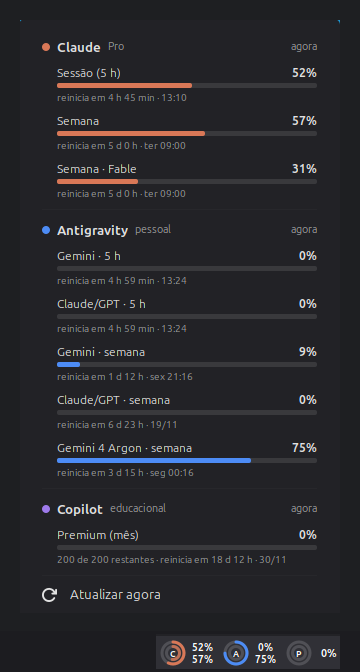
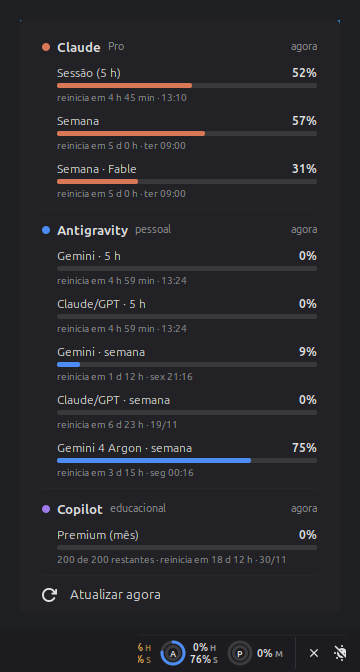
Letra do período na % e configurações por chave
- H/D/S/M depois da porcentagem (horas, dia, semana, mês)
- uma chave por IA em vez de digitar a lista de provedores
- leitura com mais de 30 min perde para uma mais nova de outra fonte
- coleta pedida durante outra roda logo depois; nada roda após remover
- reserva da status line corrompida e remaining nulo do Copilot não
  derrubam mais a coleta

Changed region(s): [[0.3667, 0.9375, 0.9778, 1.0]]

diff --git a/applet/cotabar@davicjc/applet.js b/applet/cotabar@davicjc/applet.js
@@ -54,19 +54,29 @@ function tempo(iso) {
     return isNaN(t) ? 0 : t;
 }
 
-// Junta os provedores de todos os arquivos: vence quem tem leitura boa, depois o mais novo.
-function juntar() {
+// Leitura com mais de 30 min perde para uma mais nova de outra fonte.
+const VELHA_MS = 30 * 60 * 1000;
+
+function peso(p) {
+    let v = (PESO_ESTADO[p.estado] || 0) + (p.janelas && p.janelas.length ? 1 : 0);
+    if (Date.now() - tempo(p.lido_em) > VELHA_MS) v -= 4;
+    return v;
+}
+
+// Junta os provedores de todos os arquivos: vence a leitura boa e recente, depois a mais nova.
+function juntar(lerUsuario) {
     const melhor = {};
     for (const pasta of PASTAS_FONTES) {
+        if (pasta === PASTA_USUARIO && !lerUsuario) continue;
         for (const arq of listarJson(pasta)) {
             let dados;
             try { dados = JSON.parse(lerTexto(arq) || "null"); } catch (e) { continue; }
             if (!dados || !Array.isArray(dados.provedores)) continue;
             for (const p of dados.provedores) {
                 const atual = melhor[p.id];
-                const peso = (PESO_ESTADO[p.estado] || 0) + (p.janelas && p.janelas.length ? 1 : 0);
-                const pesoAtual = atual ? (PESO_ESTADO[atual.estado] || 0) + (atual.janelas && atual.janelas.length ? 1 : 0) : -1;
-                if (peso > pesoAtual || (peso === pesoAtual && tempo(p.lido_em) > tempo(atual.lido_em))) {
+                const pesoNovo = peso(p);
+                const pesoAtual = atual ? peso(atual) : -99;
+                if (pesoNovo > pesoAtual || (pesoNovo === pesoAtual && tempo(p.lido_em) > tempo(atual.lido_em))) {
                     melhor[p.id] = p;
                 }
             }
@@ -76,12 +86,24 @@ function juntar() {
         .concat(Object.keys(melhor).filter(id => ORDEM.indexOf(id) < 0).map(id => melhor[id]));
 }
 
+// A janela mais apertada de cada tipo (é a que vai travar primeiro).
 function maior(janelas, tipo) {
     let m = null;
     for (const j of janelas || []) {
-        if (j.tipo === tipo && (m === null || j.usado > m)) m = j.usado;
+        if (j.tipo === tipo && (m === null || j.usado > m.usado)) m = j;
     }
     return m;
+}
+
+function periodo(j) {
+    if (j.periodo) return j.periodo;
+    return j.tipo === "curta" ? "H" : "S";  // JSON de coletor antigo
+}
+
+const NOME_PERIODO = { H: "horas", D: "dia", S: "semana", M: "mês" };
+
+function escapar(t) {
+    return GLib.markup_escape_text(String(t), -1);
 }
 
 // Item de menu só de leitura, sem o cinza de "desativado" que o Cinnamon põe.
@@ -205,8 +227,11 @@ class CotaBarApplet extends Applet.Applet {
         this.rodando = false;
 
         this.settings = new Settings.AppletSettings(this, metadata.uuid, instanceId);
-        this.settings.bind("coletar", "coletar", () => this._reagendar(true));
-        this.settings.bind("provedores", "listaProvedores", () => this._reagendar(true));
+        this.settings.bind("coletar", "coletar", () => { this._reagendar(true); this._ler(); });
+        for (const id of ORDEM) {
+            this.settings.bind("ia-" + id, "ia_" + id, () => { this._coletar(); this._ler(); });
+        }
+        this.settings.bind("letra-periodo", "letraPeriodo", () => this._desenhar());
         this.settings.bind("intervalo", "intervalo", () => this._reagendar(false));
         this.settings.bind("mostrar", "mostrar", () => this._desenhar());
         this.settings.bind("ocultar-ausentes", "ocultarAusentes", () => this._desenhar());
@@ -250,9 +275,17 @@ class CotaBarApplet extends Applet.Applet {
         if (agora) this._coletar();
     }
 
+    _ligados() {
+        return ORDEM.filter(id => this["ia_" + id]);
+    }
+
     _coletar() {
-        if (!this.coletar || this.rodando) return;
-        const lista = (this.listaProvedores || "").replace(/\s+/g, "");
+        if (!this.coletar) return;
+        if (this.rodando) {
+            this._pendente = true;  // roda de novo assim que a atual acabar
+            return;
+        }
+        const lista = this._ligados().join(",");
         if (!lista) return;
         GLib.mkdir_with_parents(PASTA_USUARIO, 0o755);
         const argv = ["python3", "-I", this._caminhoColetor(),
@@ -271,6 +304,10 @@ class CotaBarApplet extends Applet.Applet {
                     global.logError("CotaBar: " + e.message);
                 }
                 this._ler();
+                if (this._pendente) {
+                    this._pendente = false;
+                    this._coletar();
+                }
             });
         } catch (e) {
             this.rodando = false;
@@ -287,13 +324,14 @@ class CotaBarApplet extends Applet.Applet {
     // ------------------------------------------------------------ barra
 
     _ler() {
-        this.provedores = juntar();
+        this.provedores = juntar(this.coletar);
         this._desenhar();
         if (this.menu.isOpen) this._montarMenu();
     }
 
     _visiveis() {
-        return this.provedores.filter(p => !(this.ocultarAusentes && p.estado === "ausente"));
+        return this.provedores.filter(p => (ORDEM.indexOf(p.id) < 0 || this["ia_" + p.id]) &&
+                                           !(this.ocultarAusentes && p.estado === "ausente"));
     }
 
     _desenhar() {
@@ -331,20 +369,31 @@ class CotaBarApplet extends Applet.Applet {
             const curta = maior(p.janelas, "curta");
             const longa = maior(p.janelas, "longa");
             const apagado = p.estado !== "ok";
-            this.aneis[p.id].definir(curta, longa, apagado);
+            this.aneis[p.id].definir(curta ? curta.usado : null, longa ? longa.usado : null, apagado);
+
+            let mostra;
+            if (this.mostrar === "curta") mostra = [curta || longa];
+            else if (this.mostrar === "longa") mostra = [longa || curta];
+            else if (this.mostrar === "nada") mostra = [];
+            else mostra = curta && longa ? [curta, longa] : [curta || longa];
+            mostra = mostra.filter(Boolean);
+            if (this.mostrar !== "nada" && !mostra.length) mostra = [null];
+
             const t = this.textos[p.id];
-            let linhas;
-            if (this.mostrar === "curta") linhas = [fmtPct(curta !== null ? curta : longa)];
-            else if (this.mostrar === "longa") linhas = [fmtPct(longa !== null ? longa : curta)];
-            else if (this.mostrar === "nada") linhas = [];
-            else linhas = curta !== null && longa !== null ? [fmtPct(curta), fmtPct(longa)] : [fmtPct(curta !== null ? curta : longa)];
-            t.visible = linhas.length > 0;
-            t.set_text(linhas.join("\n"));
-            const topo = Math.max(curta || 0, longa || 0);
+            t.visible = mostra.length > 0;
+            const linhas = mostra.map(j => {
+                if (!j) return "–";
+                const letra = this.letraPeriodo ? `<span size="smaller" alpha="65%"> ${periodo(j)}</span>` : "";
+                return escapar(fmtPct(j.usado)) + letra;
+            });
+            t.clutter_text.set_markup(linhas.join("\n"));
+            const topo = Math.max(curta ? curta.usado : 0, longa ? longa.usado : 0);
             t.style_class = "cotabar-numeros" + (linhas.length > 1 ? " cotabar-duas" : "") + classeNivel(topo) + (apagado ? " cotabar-apagado" : "");
-            dicas.push(`${p.nome}: ${curta !== null ? "curta " + fmtPct(curta) : ""}${curta !== null && longa !== null ? " · " : ""}${longa !== null ? "longa " + fmtPct(longa) : ""}${p.estado === "erro" ? " (" + (p.erro || "erro") + ")" : ""}`);
+
+            const partes = [curta, longa].filter(Boolean).map(j => `${fmtPct(j.usado)} ${NOME_PERIODO[periodo(j)] || ""}`.trim());
+            dicas.push(`${p.nome}: ${partes.join(" · ") || "sem dados"}${p.estado === "erro" ? " (" + (p.erro || "erro") + ")" : ""}`);
         }
-        this.set_applet_tooltip(dicas.length ? dicas.join("\n") + "\nAnel de fora: semana/mês · de dentro: 5 h/dia" : "CotaBar — nenhum dado ainda");
+        this.set_applet_tooltip(dicas.length ? dicas.join("\n") + "\nAnel de fora: semana/mês · de dentro: horas/dia\nH horas · D dia · S semana · M mês" : "CotaBar — nenhum dado ainda");
     }
 
     // ------------------------------------------------------------ menu

diff --git a/tests/test_coletor.py b/tests/test_coletor.py
@@ -77,6 +77,7 @@ class Parsers(unittest.TestCase):
         self.assertEqual(js["sessao"]["tipo"], "curta")
         self.assertEqual(js["semana"]["tipo"], "longa")
         self.assertIn("semana-fable", js)
+        self.assertEqual([js[k]["periodo"] for k in ("sessao", "semana")], ["H", "S"])
 
     def test_claude_formato_antigo(self):
         antigo = {k: v for k, v in CLAUDE.items() if k != "limits"}
@@ -101,6 +102,16 @@ class Parsers(unittest.TestCase):
         self.assertEqual([j["id"] for j in js], ["premium_interactions"])
         self.assertEqual(js[0]["usado"], 25.0)
         self.assertEqual(js[0]["detalhe"], "150 de 200 restantes")
+        self.assertEqual(js[0]["periodo"], "M")
+
+    def test_copilot_remaining_nulo(self):
+        q = {"quota_snapshots": {"premium_interactions": {"percent_remaining": 90,
+                                                          "remaining": None, "entitlement": 300}}}
+        self.assertEqual(c.janelas_copilot(q)[0]["detalhe"], "0 de 300 restantes")
+
+    def test_agy_periodos(self):
+        js = {j["id"]: j["periodo"] for j in c.janelas_agy(AGY)}
+        self.assertEqual(js, {"gemini-weekly": "S", "gemini-5h": "H", "gemini-argon-wtu-weekly": "S"})
 
 
 class Coleta(unittest.TestCase):
@@ -139,6 +150,18 @@ class Coleta(unittest.TestCase):
         self.assertTrue(p["desatualizado"])
         usado = {j["id"]: j["usado"] for j in p["janelas"]}
         self.assertEqual(usado, {"5h": 0.0, "sem": 60})
+
+    def test_reserva_corrompida_nao_derruba(self):
+        with tempfile.TemporaryDirectory() as home:
+            os.makedirs(os.path.join(home, ".cache", "agy-skill"))
+            with open(os.path.join(home, ".cache", "agy-skill", "cota.json"), "w") as fh:
+                fh.write("{quebrado")
+
+            def falha(_):
+                raise c.Falha("sem conexão")
+            with mock.patch.dict(c.PROVEDORES, {"claude": ("Claude", falha)}):
+                dados = c.coletar(["claude", "codex"], home, None)
+        self.assertEqual([p["estado"] for p in dados["provedores"]], ["erro", "ausente"])
 
     def test_gravar_e_legivel_e_atomico(self):
         with tempfile.TemporaryDirectory() as pasta:

diff --git a/README.md b/README.md
@@ -10,7 +10,8 @@ Cada IA é um anel duplo com a letra dela no meio:
 
 - **anel de fora** = janela longa (semana ou mês)
 - **anel de dentro** = janela curta (5 h ou dia)
-- ao lado, os dois números; ficam amarelos a partir de 80% e vermelhos a partir de 95%
+- ao lado, os dois números com a letra do período — **H** horas, **D** dia, **S** semana,
+  **M** mês (ex.: `84% H` / `61% S`); ficam amarelos a partir de 80% e vermelhos a partir de 95%
 
 Clicando, abre o detalhe de cada limite com barra, porcentagem e quando reinicia
 ("em 4 h 47 min · 13:10").
@@ -66,17 +67,18 @@ O applet entra no painel na hora (sem reiniciar o Cinnamon). Para tirar:
 
 ### Configurações
 
-Botão direito no applet → **Configurar**:
+Botão direito no applet → **Configurar**. Tudo é chave ou lista, nada para digitar:
 
-| Opção | Padrão |
-|---|---|
-| Rodar o coletor como este usuário | ligado |
-| Provedores lidos por este usuário | `claude,agy,codex,copilot` |
-| Consultar a cada | 5 min |
-| Números ao lado do anel | curta e longa |
-| Esconder IA que não está instalada | ligado |
+| Aba | Opção | Padrão |
+|---|---|---|
+| IAs | Claude Code / Antigravity / Codex / GitHub Copilot (uma chave cada) | ligadas |
+| IAs | Esconder as que não estão instaladas | ligado |
+| IAs | Ler as IAs logadas neste usuário | ligado |
+| IAs | Consultar a cada | 5 min |
+| Barra | Números ao lado do anel (curta e longa / só curta / só longa / só anéis) | curta e longa |
+| Barra | Letra do período depois da % | ligado |
 
-Usando o timer do root para Claude e agy, deixe só `copilot,codex` no usuário.
+Se a mesma IA vem do usuário e do timer do root, o applet fica com a leitura boa mais recente.
 
 ### Rodar o coletor à mão
 
